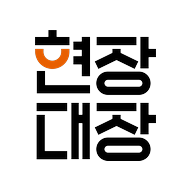
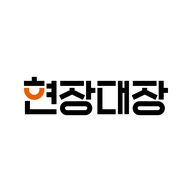
로고를 가로형으로 전면 교체
헤더 폭이 넉넉해 가로형이 더 읽히고, 좁은 헤더 높이에서
글자 크기를 키울 수 있다.

- 헤더·푸터 로고를 가로형으로 (높이 30px / 가이드·보안 27px)
- 히어로 위에서는 화이트+오렌지, 스크롤 후 컬러로 전환하는 구조는 유지
- 파비콘·앱 아이콘·카카오 프로필은 디자인 원본의 가로형 정방형 자산 사용
- 세로형(logo-v)은 인쇄물 등에 쓸 수 있게 남겨둔다

Changed region(s): [[0.125, 0.1562, 0.875, 0.8438]]

diff --git a/index.html b/index.html
@@ -102,7 +102,7 @@ h3{font-size:clamp(19px,1.6vw,22px);font-weight:700;letter-spacing:-.035em;line-
 header{position:fixed;top:0;left:0;right:0;z-index:80;transition:background .25s ease,box-shadow .25s ease,border-color .25s ease;border-bottom:1px solid transparent}
 .nav{display:flex;align-items:center;justify-content:space-between;height:72px;gap:20px;white-space:nowrap}
 .logo{display:flex;align-items:center;flex-shrink:0}
-.logo img{height:52px;width:auto;display:block}
+.logo img{height:30px;width:auto;display:block}
 header .lg-c{display:none}
 header.solid .lg-w{display:none}
 header.solid .lg-c{display:block}
@@ -342,7 +342,7 @@ footer{background:var(--bg2);padding:clamp(64px,8vh,88px) 0 56px;border-top:1px 
 <body>
 
 <header id="hdr"><div class="wrap nav">
-  <div class="logo"><img class="lg-w" src="img/logo-v-white.png" alt="현장대장"><img class="lg-c" src="img/logo-v.png" alt="현장대장"></div>
+  <div class="logo"><img class="lg-w" src="img/logo-h-white.png" alt="현장대장"><img class="lg-c" src="img/logo-h.png" alt="현장대장"></div>
   <nav class="nav-links">
     <a href="#features">기능</a><a href="#screens">화면</a><a href="#story">이야기</a><a href="#pricing">요금</a><a href="/security">보안</a><a href="#faq">FAQ</a><a href="#beta">문의</a>
   </nav>
@@ -623,7 +623,7 @@ footer{background:var(--bg2);padding:clamp(64px,8vh,88px) 0 56px;border-top:1px 
   <div class="wrap">
     <div class="f-top">
       <div class="f-brand">
-        <div class="logo"><img src="img/logo-v.png" alt="현장대장"></div>
+        <div class="logo"><img src="img/logo-h.png" alt="현장대장"></div>
         <p>전기업체에 특화된 현장·회사관리 플랫폼. 카톡·엑셀에 흩어진 기록을 한곳으로.</p>
       </div>
       <div class="f-col"><b>제품</b>

diff --git a/guide.html b/guide.html
@@ -43,7 +43,7 @@ header{position:sticky;top:0;z-index:50;background:rgba(255,255,255,.9);
   backdrop-filter:saturate(180%) blur(14px);border-bottom:1px solid var(--line)}
 .nav{display:flex;align-items:center;justify-content:space-between;height:62px;gap:16px}
 .nav .logo{display:flex;align-items:center}
-.nav .logo img{height:46px;width:auto;display:block}
+.nav .logo img{height:27px;width:auto;display:block}
 .nav .home{font-size:14.5px;font-weight:600;color:var(--ink2);white-space:nowrap}
 
 /* ── 히어로 ── */
@@ -166,7 +166,7 @@ footer a{color:var(--ink2);font-weight:600;margin-right:16px}
 
 <header>
   <div class="wrap nav">
-    <a class="logo" href="/"><img src="/img/logo-v.png" alt="현장대장"></a>
+    <a class="logo" href="/"><img src="/img/logo-h.png" alt="현장대장"></a>
     <a class="home" href="/">← 홈으로</a>
   </div>
 </header>

diff --git a/security.html b/security.html
@@ -39,7 +39,7 @@ header{position:sticky;top:0;z-index:50;background:rgba(255,255,255,.9);
   backdrop-filter:saturate(180%) blur(14px);border-bottom:1px solid var(--line)}
 .nav{display:flex;align-items:center;justify-content:space-between;height:62px}
 .nav .logo{display:flex;align-items:center}
-.nav .logo img{height:46px;width:auto;display:block}
+.nav .logo img{height:27px;width:auto;display:block}
 .nav .home{font-size:14.5px;font-weight:600;color:var(--ink2)}
 
 .hero{padding:72px 0 52px}
@@ -116,7 +116,7 @@ footer a{color:var(--ink2);font-weight:600;margin-right:16px}
 
 <header>
   <div class="wrap nav">
-    <a class="logo" href="/"><img src="/img/logo-v.png" alt="현장대장"></a>
+    <a class="logo" href="/"><img src="/img/logo-h.png" alt="현장대장"></a>
     <a class="home" href="/">← 홈으로</a>
   </div>
 </header>
